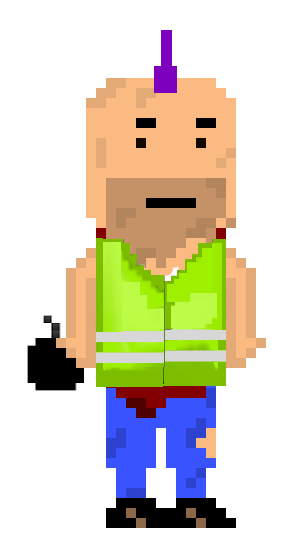
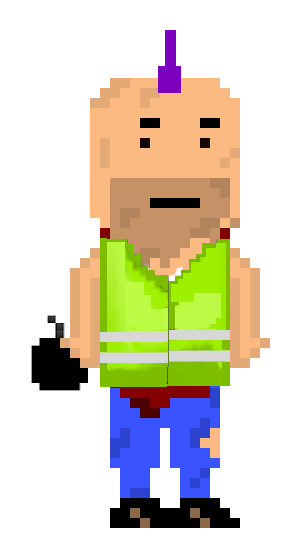
Ajout images + maquettes

diff --git a/maquettes_start.html b/maquettes_start.html
@@ -12,10 +12,12 @@
     <h1>HES-SO Vs - 624-2 - HTML/CSS/JavaScript</h1>
     <nav>
         <!-- Hamburger -->
+        <label for="hamburger">&#9776;</label>
+        <input type="checkbox" id="hamburger"/>
         <ul>
-            <li class="hamburger">
-                <img src="ressources/images/hamburger_icon.svg">
-            </li>
+            <!--<li class="hamburger">-->
+                <!--<img src="ressources/images/hamburger_icon.svg">-->
+            <!--</li>-->
             <li>
                 <a href="description_start.html">Description</a>
             </li>
@@ -43,19 +45,25 @@
                 <h2>Maquette visuelle de votre projet</h2>
                 <p>Par Jean Dupont le 5/02/2019 à 09:00</p>
             </header>
-            <p>Lorem ipsum dolor sit amet... <a href="http://www.hevs.ch/">http://www.hevs.ch/</a>,
-                 Ut non eros scelerisque, varius diam a, pulvinar arcu. Phasellus fermentum non arcu ornare ornare. Sed libero mi, rutrum et felis commodo, molestie tempor leo. Duis sit amet erat ut elit faucibus tincidunt sit amet non leo. Quisque dapibus ultricies cursus.</p>
-            <p> Aenean elit nisi, maximus sit amet vulputate non, molestie non odio. Quisque in dolor vel libero <strong>lobortis commodo</strong> ultricies sed nisl. Orci varius natoque penatibus et magnis dis parturient montes, nascetur ridiculus mus. Ut pretium ipsum in ipsum venenatis, id elementum quam ultrices. Nam nec enim sagittis, ultrices massa eu, fermentum sem.</p>
-            <p><strong>Nam sed justo tortor:</strong>Aliquam eros ex, porttitor vel aliquam in, imperdiet id felis. Aliquam sed est quis nibh vestibulum porta. Nam ipsum quam, dapibus quis felis quis, pharetra auctor sapien</p>
-                <p>Le code source de l'application est disponible sur le <a href="https://github.com/">github du projet</a>.</p>
+            <p>Monde 1</p>
+            <img src="ressources/images/Plateau1.JPG">
+            <p>Monde 2</p>
+            <img src="ressources/images/Plateau2.JPG">
+            <p>Monde 3</p>
+            <img src="ressources/images/Plateau3.JPG">
+            <aside>
+                <img src="ressources/images/Punk_jaune.png">
+            </aside>
+            <p>Le code source de l'application est disponible sur le <a href="https://github.com/">github du projet</a>.</p>
         </article>
     </section>
     <!-- >Fin zone pour votre contenu -->
 </main>
-    
-    <footer>
-        <img id="logo" src="ressources/images/logo.png">
-    </footer>
+
+<footer>
+    <img id="logoBombe" src="ressources/images/logoBomb.png">
+    <img id="logoHES" src="ressources/images/logo.png">
+</footer>
 
 </body>
 </html>

diff --git a/mockup_start.html b/mockup_start.html
@@ -12,10 +12,12 @@
     <h1>HES-SO Vs - 624-2 - HTML/CSS/JavaScript</h1>
     <nav>
         <!-- Hamburger -->
+        <label for="hamburger">&#9776;</label>
+        <input type="checkbox" id="hamburger"/>
         <ul>
-            <li class="hamburger">
-                <img src="ressources/images/hamburger_icon.svg">
-            </li>
+            <!--<li class="hamburger">-->
+                <!--<img src="ressources/images/hamburger_icon.svg">-->
+            <!--</li>-->
             <li>
                 <a href="description_start.html">Description</a>
             </li>
@@ -41,21 +43,20 @@
         <article>
             <header>
                 <h2>Mockup de votre projet</h2>
-                <p>Par Jean Dupont le 5/02/2019 à 09:00</p>
+                <p>Par Raphael Buffet le 10/04/2019 à 19:34</p>
             </header>
-            <p>Lorem ipsum dolor sit amet... <a href="http://www.hevs.ch/">http://www.hevs.ch/</a>,
-                 Ut non eros scelerisque, varius diam a, pulvinar arcu. Phasellus fermentum non arcu ornare ornare. Sed libero mi, rutrum et felis commodo, molestie tempor leo. Duis sit amet erat ut elit faucibus tincidunt sit amet non leo. Quisque dapibus ultricies cursus.</p>
-            <p> Aenean elit nisi, maximus sit amet vulputate non, molestie non odio. Quisque in dolor vel libero <strong>lobortis commodo</strong> ultricies sed nisl. Orci varius natoque penatibus et magnis dis parturient montes, nascetur ridiculus mus. Ut pretium ipsum in ipsum venenatis, id elementum quam ultrices. Nam nec enim sagittis, ultrices massa eu, fermentum sem.</p>
-            <p><strong>Nam sed justo tortor:</strong>Aliquam eros ex, porttitor vel aliquam in, imperdiet id felis. Aliquam sed est quis nibh vestibulum porta. Nam ipsum quam, dapibus quis felis quis, pharetra auctor sapien</p>
-                <p>Le code source de l'application est disponible sur le <a href="https://github.com/">github du projet</a>.</p>
+               <p>Le code source de l'application est disponible sur le <a href="https://github.com/">github du projet</a>.</p>
+            <h1> Mockup </h1>
+            <img src="ressources/images/mockup.png">
         </article>
     </section>
     <!-- >Fin zone pour votre contenu -->
 </main>
-    
-    <footer>
-        <img id="logo" src="ressources/images/logo.png">
-    </footer>
+
+<footer>
+    <img id="logoBombe" src="ressources/images/logoBomb.png">
+    <img id="logoHES" src="ressources/images/logo.png">
+</footer>
 
 </body>
 </html>

diff --git a/flux_start.html b/flux_start.html
@@ -12,10 +12,12 @@
     <h1>HES-SO Vs - 624-2 - HTML/CSS/JavaScript</h1>
     <nav>
         <!-- Hamburger -->
+        <label for="hamburger">&#9776;</label>
+        <input type="checkbox" id="hamburger"/>
         <ul>
-            <li class="hamburger">
-                <img src="ressources/images/hamburger_icon.svg">
-            </li>
+      <!--<li class="hamburger">-->
+                <!--<img src="ressources/images/hamburger_icon.svg">-->
+            <!--</li>-->
             <li>
                 <a href="description_start.html">Description</a>
             </li>
@@ -41,21 +43,18 @@
         <article>
             <header>
                 <h2>Flux et sitemap de votre projet</h2>
-                <p>Par Jean Dupont le 5/02/2019 à 09:00</p>
+                <p>Par Raphael Buffet le 10/03/2019 à 11:35</p>
             </header>
-            <p>Lorem ipsum dolor sit amet... <a href="http://www.hevs.ch/">http://www.hevs.ch/</a>,
-                 Ut non eros scelerisque, varius diam a, pulvinar arcu. Phasellus fermentum non arcu ornare ornare. Sed libero mi, rutrum et felis commodo, molestie tempor leo. Duis sit amet erat ut elit faucibus tincidunt sit amet non leo. Quisque dapibus ultricies cursus.</p>
-            <p> Aenean elit nisi, maximus sit amet vulputate non, molestie non odio. Quisque in dolor vel libero <strong>lobortis commodo</strong> ultricies sed nisl. Orci varius natoque penatibus et magnis dis parturient montes, nascetur ridiculus mus. Ut pretium ipsum in ipsum venenatis, id elementum quam ultrices. Nam nec enim sagittis, ultrices massa eu, fermentum sem.</p>
-            <p><strong>Nam sed justo tortor:</strong>Aliquam eros ex, porttitor vel aliquam in, imperdiet id felis. Aliquam sed est quis nibh vestibulum porta. Nam ipsum quam, dapibus quis felis quis, pharetra auctor sapien</p>
-                <p>Le code source de l'application est disponible sur le <a href="https://github.com/">github du projet</a>.</p>
+            <img src="ressources/images/sitemap.jpeg">
         </article>
     </section>
     <!-- >Fin zone pour votre contenu -->
 </main>
-    
-    <footer>
-        <img id="logo" src="ressources/images/logo.png">
-    </footer>
+
+<footer>
+    <img id="logoBombe" src="ressources/images/logoBomb.png">
+    <img id="logoHES" src="ressources/images/logo.png">
+</footer>
 
 </body>
 </html>
